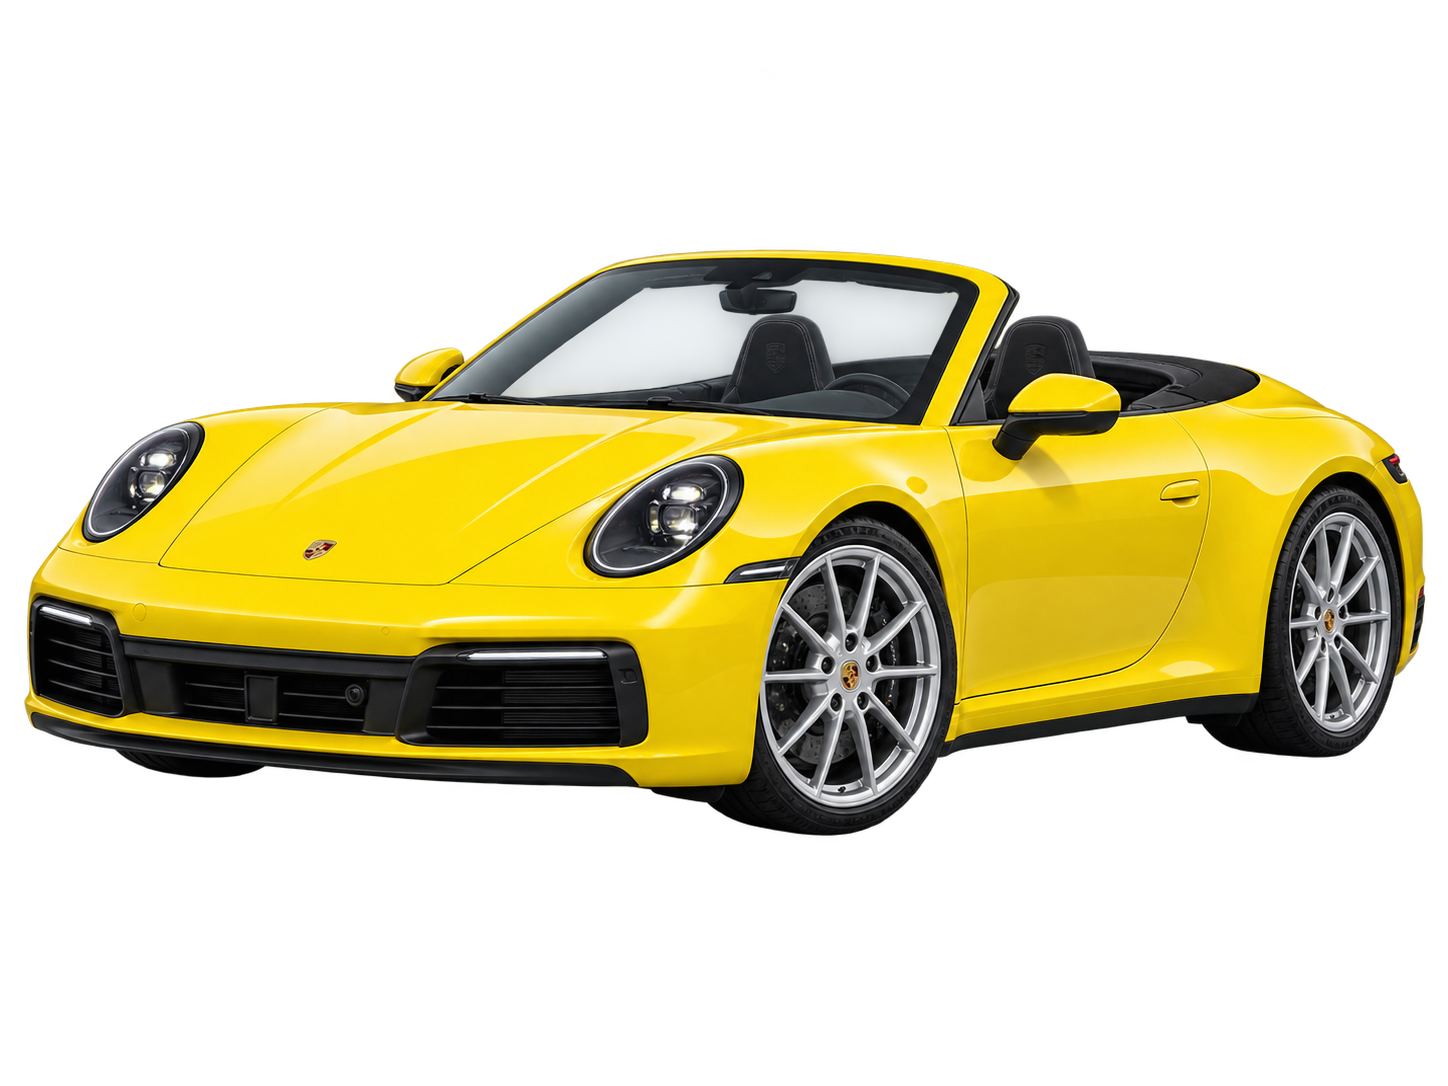
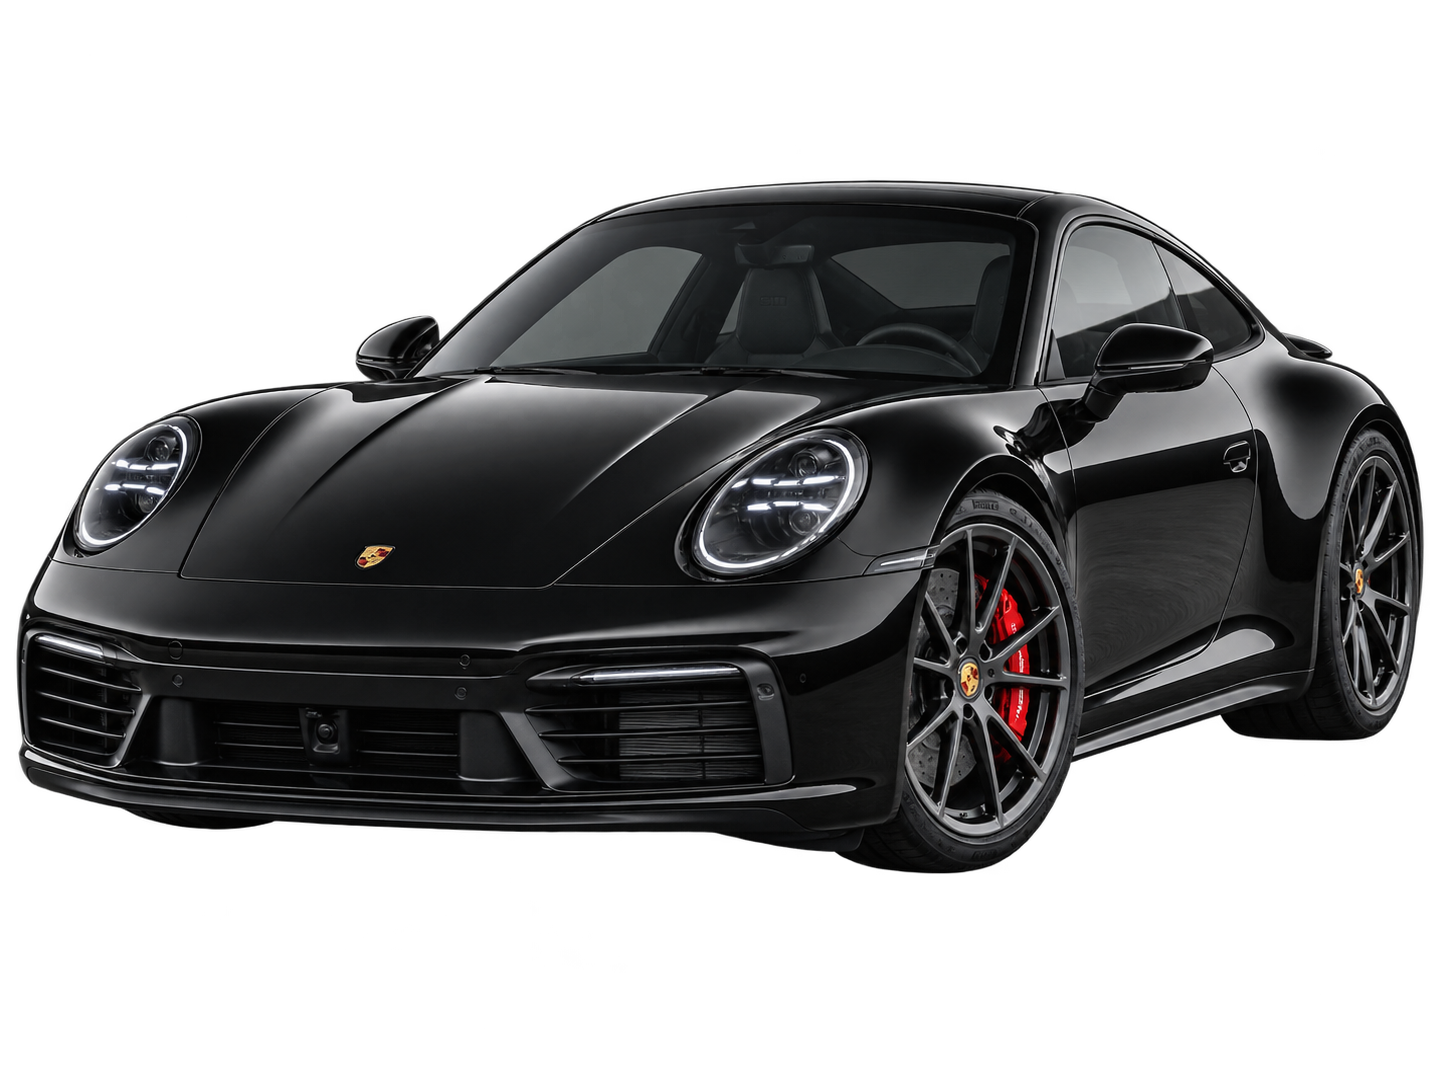
1

diff --git a/src/components/SupercarConfiguratorHero.tsx b/src/components/SupercarConfiguratorHero.tsx
@@ -68,8 +68,8 @@ const FEATURED_FLEET: Supercar[] = [
       trips: 28,
       location: 'Mallorca / Ibiza'
     },
-    colorName: 'Signal Yellow',
-    colorHex: '#EAB308',
+    colorName: 'Jet Black Metallic',
+    colorHex: '#111111',
     image: '/supercars/brands/porsche.png',
     badgeText: '6-SPEED MANUAL'
   },
